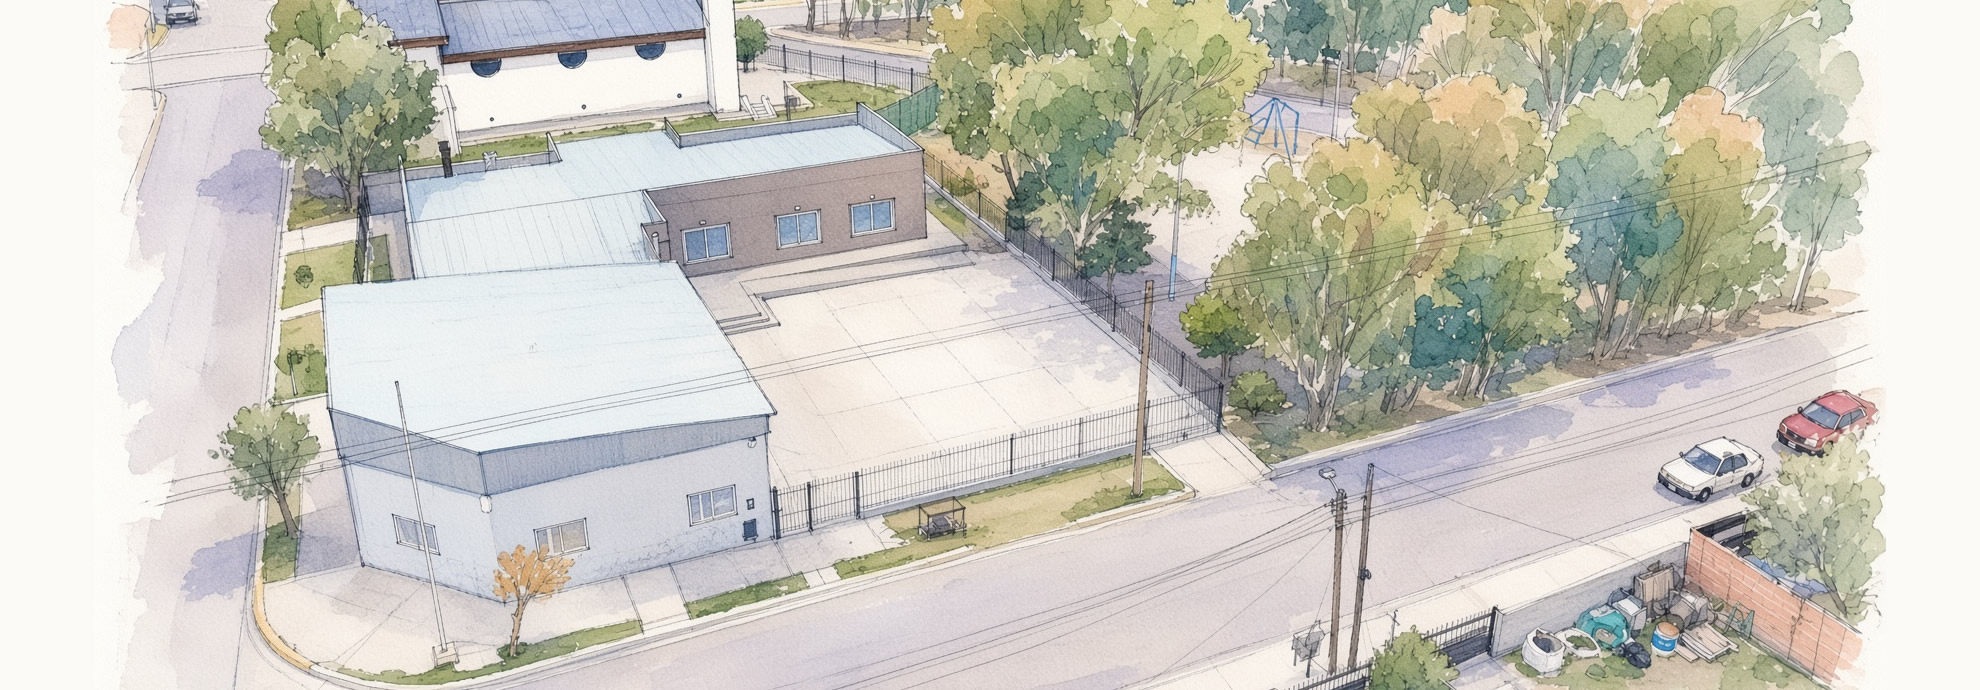
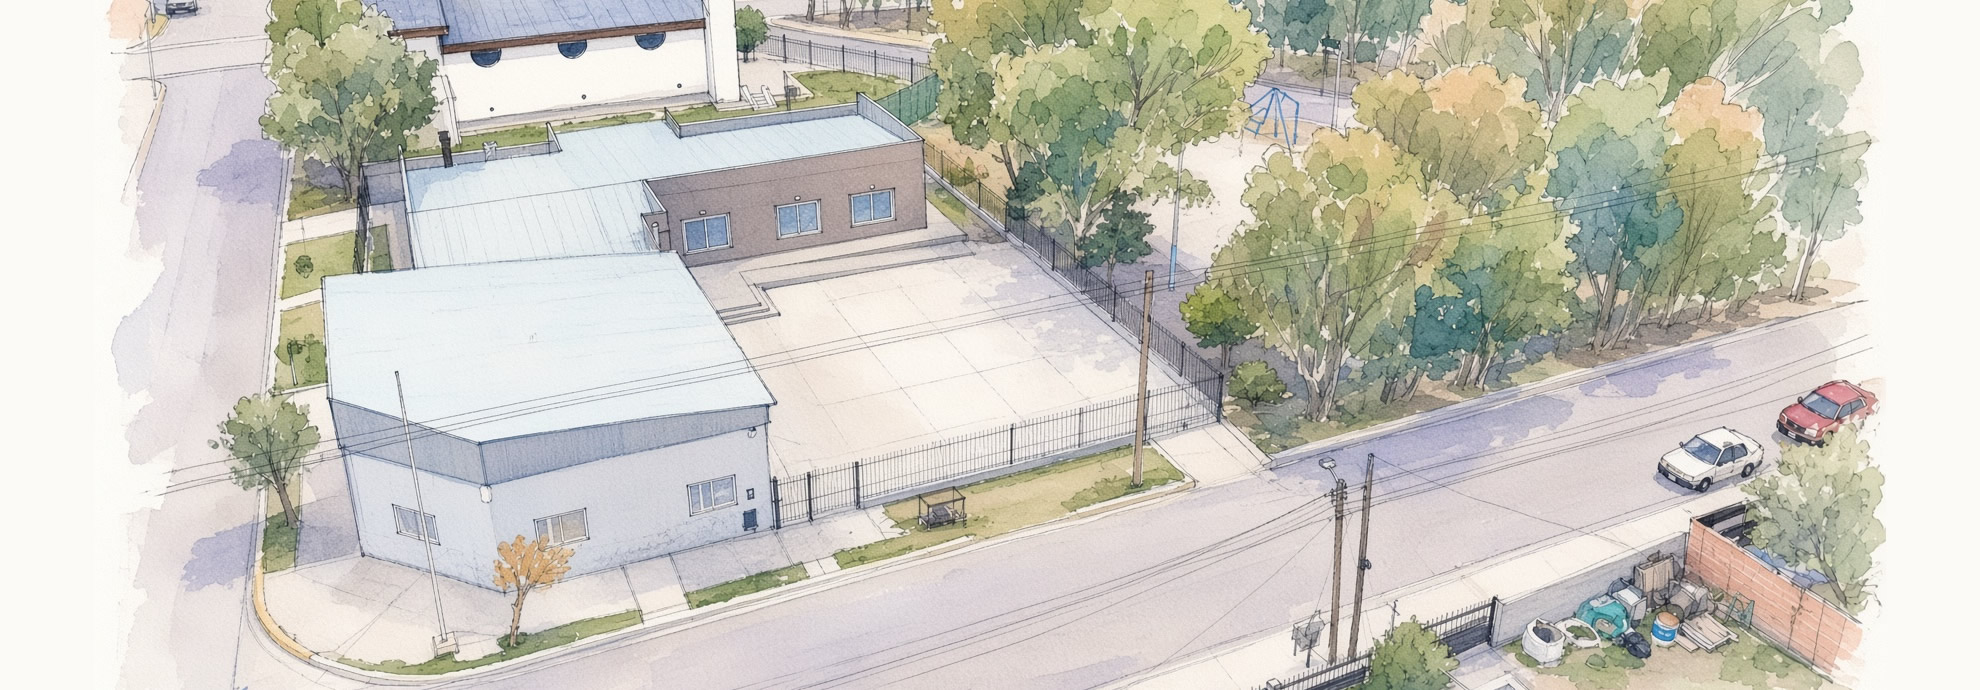
fix(home): lighten the hero overlay for the watercolor and re-measure the floors
A black scrim calibrated for an aerial photo reads as a stain on a light
watercolor: it is not the amount of black that hurts the drawing, it is
that there is any. The gradient drops from 0.86 to 0.68 at floor level
and the text-shadow picks up the slack — darkening the glyph instead of
darkening the illustration.

The contrast floors were MEASURED in the browser against the worst pixel
that actually occurs in the image (pure white paper; the text band still
peaks at 255 after the reframe):

  desktop  title 4.58:1 (36px bold)          subtitle 5.15:1 (16px)
  mobile   title 3.61:1 (24px bold, 2 lines) subtitle 4.74:1 (14px)

Titles are large text (AA floor 3:1), subtitles normal text (AA floor
4.5:1): all four pass. The comment carried an estimate saying the mobile
title climbed to ~290px off the floor — it is 184px. That estimate was
written when the hero was a photo and nobody had measured it since, so
the recorded floor had drifted away from the real one. The numbers in
the comment are now the measured ones, and the mobile subtitle is
flagged as the tight one (4.74 against 4.50) so the next person who
swaps the image knows to re-measure rather than assume.

The text-shadow is deliberately NOT counted in those figures: WCAG does
not credit it. It is margin on top of a floor that already clears.

Also drops three stale "la foto" references in the hero comments, and
picks up the 10px reframe of the illustration.

diff --git a/src/app/(public)/page.tsx b/src/app/(public)/page.tsx
@@ -49,19 +49,34 @@ export default async function HomePage() {
           }),
         }}
       />
-      {/* Hero: la foto tiene pixeles casi blancos (techos, chapa) en TODA su
-          altura, así que el contraste del texto no puede depender de qué zona
-          le toque atrás. El overlay se define en píxeles desde el borde
-          inferior — no en porcentajes de la altura del hero — porque el bloque
-          de texto mide lo mismo en cualquier viewport: así el mismo degradé
-          sirve en mobile (donde el título ocupa dos líneas y sube hasta ~290 px
-          del piso) y en desktop, sin variantes responsive.
-          Calibrado contra el peor pixel posible (un techo blanco puro): a la
-          altura del título el overlay compone ~0,60 de negro, o sea que 255
-          cae a ~100 y el blanco da ~5,8:1 — piso garantizado, no promedio.
-          Arriba de los 420 px el overlay ya no existe: la foto queda intacta
-          justo donde tiene información (las manzanas, las calles, los árboles)
-          y el hero se sigue leyendo como una foto aérea del barrio. */}
+      {/* Hero: la ilustración tiene pixeles blancos (el papel de la acuarela,
+          el patio) en TODA su altura, así que el contraste del texto no puede
+          depender de qué zona le toque atrás. El overlay se define en píxeles
+          desde el borde inferior — no en porcentajes de la altura del hero —
+          porque el bloque de texto mide lo mismo en cualquier viewport: así el
+          mismo degradé sirve en mobile y en desktop, sin variantes responsive.
+          Calibrado contra el peor pixel posible (papel blanco puro, 255), que
+          en esta imagen existe de verdad: el máximo de la banda del texto es
+          255. Pisos MEDIDOS en el navegador, no estimados — la línea más alta
+          del título en mobile cae a 184 px del piso, no a los ~290 que decía
+          este comentario cuando el hero era una foto:
+
+            desktop  título 4,58:1 (36 px bold) · subtítulo 5,15:1 (16 px)
+            mobile   título 3,61:1 (24 px bold, 2 líneas) · subtítulo 4,74:1
+
+          Los dos títulos son texto grande (piso AA 3:1) y los dos subtítulos
+          son texto normal (piso AA 4,5:1): pasa en los cuatro. El del
+          subtítulo en mobile es el más justo (4,74 contra 4,50), así que si
+          algún día se cambia la imagen del hero o el tamaño de ese texto, hay
+          que volver a medir acá. El text-shadow NO está contado en esos
+          números: WCAG no lo acredita, y de eso se trata — es margen extra
+          sobre un piso que ya cierra solo.
+          Este degradé es más flojo que el que llevaba la foto aérea (0,68 en
+          vez de 0,86 al ras del piso). Sobre una acuarela clara el negro se
+          lee como una mancha y no como una sombra, así que se compensa con un
+          text-shadow más marcado en lugar de oscurecer más el dibujo.
+          Arriba de los 400 px el overlay ya no existe: la ilustración queda
+          intacta justo donde tiene información (la sede, la arboleda). */}
       <section className="relative">
         <Image
           src={heroImg}
@@ -71,14 +86,14 @@ export default async function HomePage() {
           sizes="100vw"
           className="h-[52vh] min-h-[26rem] w-full object-cover sm:h-[55vh]"
         />
-        <div className="absolute inset-0 flex flex-col items-center justify-end bg-[linear-gradient(to_top,rgb(0_0_0/0.86)_0px,rgb(0_0_0/0.60)_230px,rgb(0_0_0/0.55)_300px,rgb(0_0_0/0)_420px)] px-4 pb-8 text-center text-white">
+        <div className="absolute inset-0 flex flex-col items-center justify-end bg-[linear-gradient(to_top,rgb(0_0_0/0.68)_0px,rgb(0_0_0/0.42)_230px,rgb(0_0_0/0.36)_300px,rgb(0_0_0/0)_400px)] px-4 pb-8 text-center text-white">
           {/* text-shadow real (no el filter `drop-shadow` de Tailwind, que es
               10 % y 6 % de negro y no mueve la aguja): suma contraste justo
-              donde está el glifo, sin oscurecer un pixel más de la foto. */}
-          <h1 className="text-2xl font-bold [text-shadow:0_1px_3px_rgb(0_0_0/0.55)] sm:text-4xl">
+              donde está el glifo, sin oscurecer un pixel más del dibujo. */}
+          <h1 className="text-2xl font-bold [text-shadow:0_2px_10px_rgb(0_0_0/0.85),0_1px_3px_rgb(0_0_0/0.7)] sm:text-4xl">
             {SITE.name}
           </h1>
-          <p className="mt-1 text-sm [text-shadow:0_1px_3px_rgb(0_0_0/0.55)] sm:text-base">
+          <p className="mt-1 text-sm [text-shadow:0_2px_10px_rgb(0_0_0/0.85),0_1px_3px_rgb(0_0_0/0.7)] sm:text-base">
             {SITE.city}
           </p>
           <div className="mt-4 flex flex-col items-center gap-3">
@@ -107,7 +122,7 @@ export default async function HomePage() {
                 {/* Lo accionable acá es la información, no el control: el aviso
                     va primero y se lleva el peso visual del bloque. Superficie
                     opaca (no un negro translúcido): su contraste no puede
-                    depender de qué pixel de la foto le toque atrás. */}
+                    depender de qué pixel de la ilustración le toque atrás. */}
                 <div className="max-w-md rounded-md bg-background px-4 py-2.5 text-left text-foreground shadow-lg">
                   {reregistration !== null ? (
                     /* Suspensión por re-empadronamiento: el vecino tiene que
